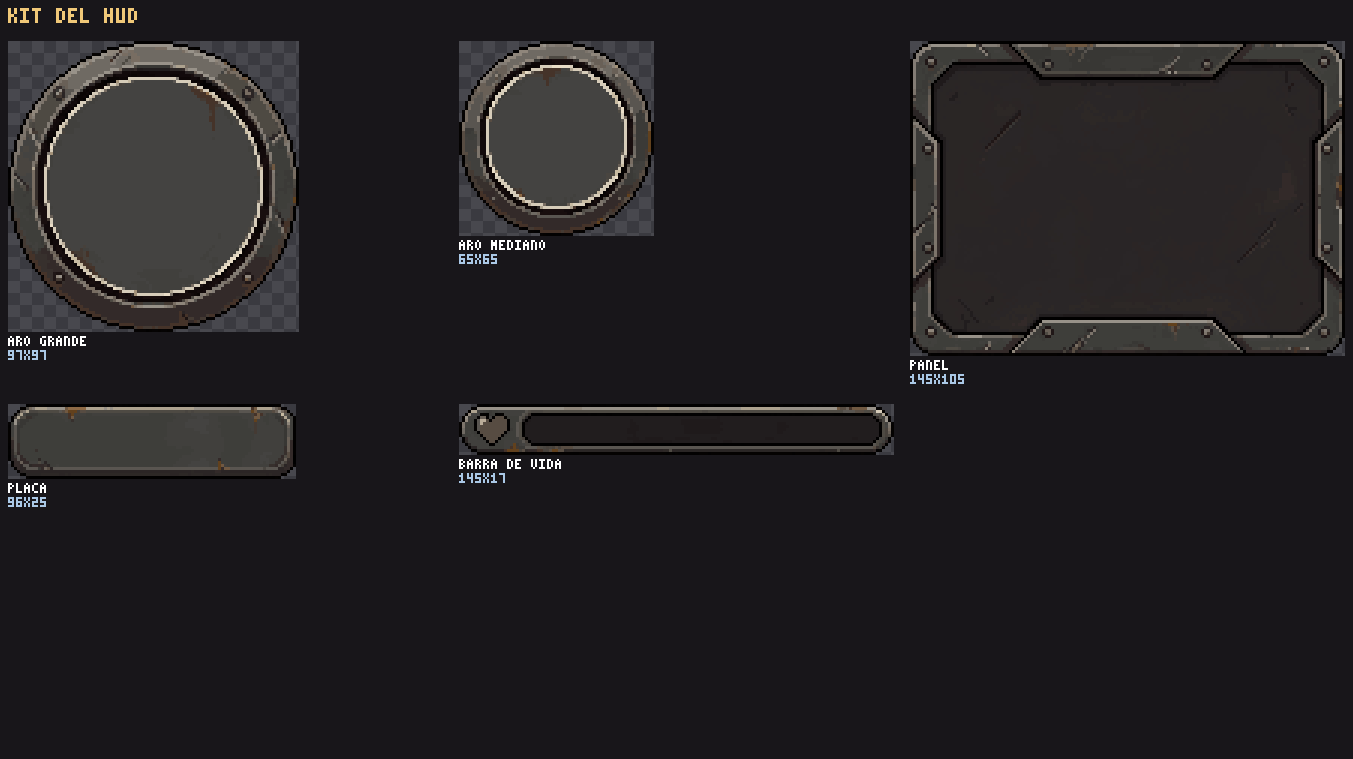
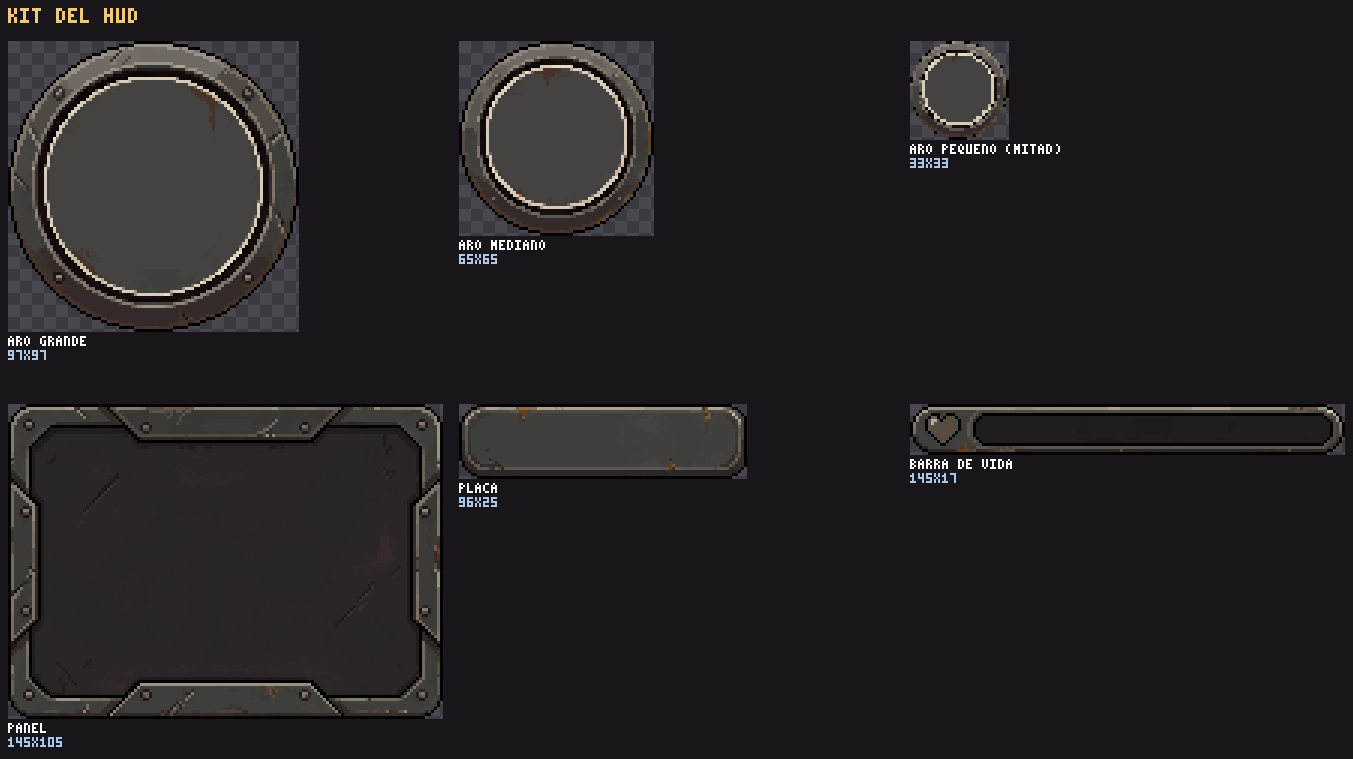
feat(hud): botones pequeños con el aro pequeño (33 px)
Especial, recargar, cuchillo y huecos de arma usan el aro mediano del kit
reducido exactamente a la mitad al importar (ringSmall, 33 px), en sus
posiciones de antes del kit. Los huecos se tocan en 45 px sin robarse
toques entre ellos ni con el especial.

Changed region(s): [[0.0, 0.0303, 1.0, 1.0]]

diff --git a/scripts/import-hud.ts b/scripts/import-hud.ts
@@ -12,7 +12,9 @@
  *
  * Nothing is repainted: the rings are tinted at runtime (src/ui/skin.ts), the
  * panel and the plate are drawn with 9-slice, and the game draws the health
- * segments inside the bar's trough and makes the heart beat.
+ * segments inside the bar's trough and makes the heart beat. The only new
+ * image is the small ring: the medium one halved exactly (2:1), so the small
+ * buttons are drawn at 1× too.
  */
 import { existsSync, mkdirSync, readFileSync, readdirSync, statSync, writeFileSync } from 'node:fs';
 import { dirname, join, resolve } from 'node:path';
@@ -50,10 +52,12 @@ export interface UiPiece {
 }
 
 type PieceName = 'ringLarge' | 'ringMedium' | 'panel' | 'plate' | 'healthFrame';
+type OutputName = PieceName | 'ringSmall';
 
-const LABELS: Record<PieceName, string> = {
+const LABELS: Record<OutputName, string> = {
   ringLarge: 'ARO GRANDE',
   ringMedium: 'ARO MEDIANO',
+  ringSmall: 'ARO PEQUENO (MITAD)',
   panel: 'PANEL',
   plate: 'PLACA',
   healthFrame: 'BARRA DE VIDA',
@@ -189,6 +193,40 @@ export function measureHealthBar(f: Frame): { trough: Rect; heart: Rect } {
   return { trough, heart: { x: hx0, y: hy0, width: hx1 - hx0 + 1, height: hy1 - hy0 + 1 } };
 }
 
+/**
+ * Exactly half the size: each pixel takes the commonest colour of its 2×2
+ * block; on a tie the lighter one wins, so the thin bone-white border of a
+ * ring survives. An odd size rounds up (the last row and column count alone).
+ */
+export function halve(src: Frame): Frame {
+  const w = Math.ceil(src.width / 2);
+  const h = Math.ceil(src.height / 2);
+  const out: Frame = { width: w, height: h, pixels: new Uint8Array(w * h * 4) };
+  const keyAt = (x: number, y: number): number => {
+    if (alpha(src, x, y) === 0) return -1;
+    const [r, g, b] = rgb(src, x, y);
+    return (r << 16) | (g << 8) | b;
+  };
+  const light = (k: number): number => (k < 0 ? -1 : luma([(k >> 16) & 0xff, (k >> 8) & 0xff, k & 0xff]));
+  for (let y = 0; y < h; y++) {
+    for (let x = 0; x < w; x++) {
+      const counts = new Map<number, number>();
+      for (let dy = 0; dy < 2; dy++) {
+        for (let dx = 0; dx < 2; dx++) {
+          const sx = x * 2 + dx;
+          const sy = y * 2 + dy;
+          if (sx < src.width && sy < src.height) counts.set(keyAt(sx, sy), (counts.get(keyAt(sx, sy)) ?? 0) + 1);
+        }
+      }
+      let best = -1;
+      let bestCount = -1;
+      for (const [key, n] of counts) if (n > bestCount || (n === bestCount && light(key) > light(best))) [best, bestCount] = [key, n];
+      if (best >= 0) out.pixels.set([(best >> 16) & 0xff, (best >> 8) & 0xff, best & 0xff, 255], (y * w + x) * 4);
+    }
+  }
+  return out;
+}
+
 /** The kit's pieces: elements/ of a PixelLab export, or else the one PNG sheet in the folder. */
 function readKit(dir: string): Frame[] {
   for (const name of readdirSync(dir)) {
@@ -207,25 +245,27 @@ function readKit(dir: string): Frame[] {
 }
 
 export function importHud(root: string, log: (line: string) => void): Record<string, UiPiece> {
-  const kit = namePieces(readKit(resolve(root, 'art-src/pixellab/hud')));
+  const named = namePieces(readKit(resolve(root, 'art-src/pixellab/hud')));
+  const kit: Record<OutputName, Frame> = { ...named, ringSmall: halve(named.ringMedium) };
   const outDir = resolve(root, 'public/assets/ui');
   mkdirSync(outDir, { recursive: true });
-  const files: Record<PieceName, string> = {
+  const files: Record<OutputName, string> = {
     ringLarge: 'ring_large.png',
     ringMedium: 'ring_medium.png',
+    ringSmall: 'ring_small.png',
     panel: 'panel.png',
     plate: 'plate.png',
     healthFrame: 'health_frame.png',
   };
   const bar = measureHealthBar(kit.healthFrame);
-  const extra: Partial<Record<PieceName, Partial<UiPiece>>> = {
+  const extra: Partial<Record<OutputName, Partial<UiPiece>>> = {
     panel: { slice: PANEL_SLICE },
     plate: { slice: PLATE_SLICE },
     healthFrame: { trough: bar.trough, heart: bar.heart },
   };
   const pieces: Record<string, UiPiece> = {};
   const review: SheetEntry[] = [];
-  for (const name of Object.keys(files) as PieceName[]) {
+  for (const name of Object.keys(files) as OutputName[]) {
     const frame = kit[name];
     writeFileSync(join(outDir, files[name]), encodePng(frame.width, frame.height, frame.pixels));
     pieces[name] = { file: `ui/${files[name]}`, width: frame.width, height: frame.height, ...extra[name] };

diff --git a/src/ui/skin.css b/src/ui/skin.css
@@ -1,9 +1,10 @@
 /*
  * HUD skin from PixelLab (src/ui/skin.ts, npm run hud:import). Only with
  * `.has-ui-skin` on <html>: without the pieces the HUD keeps its CSS look.
- * Rings at 1× (their 97 and 65 px), symbols at 2× their 12×12 grid; the
- * panel and the plate with 9-slice: corners whole, edges repeated pixel
- * for pixel. Always pixelated.
+ * Rings at 1× (the big one, 97 px; the small one, 33 px: the medium halved
+ * at import), symbols at whole multiples of their 12×12 grid; the panel and
+ * the plate with 9-slice: corners whole, edges repeated pixel for pixel.
+ * Always pixelated.
  */
 
 /* ── Fire button: the big ring, tinted red, on the 96 px button (the ring is 97). ── */
@@ -25,52 +26,25 @@
   pointer-events: none;
 }
 
-/* ── Special, reload and knife: the medium ring (65 px), in an arc around the fire button. ── */
-.has-ui-skin .action-button {
-  width: var(--ui-ring-medium-size);
-  height: var(--ui-ring-medium-size);
-  background: var(--ui-ring-medium) 0 0 / 100% 100% no-repeat;
+/* ── Special, reload, knife and weapon slots: the small ring (33 px, the medium one halved), where they always were. ── */
+.has-ui-skin .action-button,
+.has-ui-skin .weapon-column .action-button {
+  width: var(--ui-ring-small-size);
+  height: var(--ui-ring-small-size);
+  background: var(--ui-ring-small) 0 0 / 100% 100% no-repeat;
   box-shadow: none;
   image-rendering: pixelated;
 }
 
-/* Fire centre at (pad + 60, pad-bottom + 64) from the corner; the ring centres 89 px from it. */
-.has-ui-skin .action-button--special {
-  right: calc(var(--pad-x) + 28px);
-  bottom: calc(var(--pad-bottom) + 120px);
-  background-image: var(--ui-ring-medium-amber);
-}
-
-.has-ui-skin .action-button--reload {
-  right: calc(var(--pad-x) + 90px);
-  bottom: calc(var(--pad-bottom) + 94px);
-}
-
-.has-ui-skin .action-button--melee {
-  right: calc(var(--pad-x) + 116px);
-  bottom: calc(var(--pad-bottom) + 32px);
+.has-ui-skin .action-button--special,
+.has-ui-skin .weapon-slot.is-active {
+  background-image: var(--ui-ring-small-amber);
+  box-shadow: none;
 }
 
 /* The reload veil empties over the ring's face only. */
 .has-ui-skin .action-button__clip {
-  inset: var(--ui-ring-medium-face-inset);
-}
-
-/* ── Weapon slots: the medium ring (65 px, at least 44); in a row under the money. ── */
-.has-ui-skin .weapon-column {
-  flex-direction: row;
-  top: calc(var(--pad-top) + 56px);
-  gap: 4px;
-}
-
-.has-ui-skin .weapon-column .action-button {
-  width: var(--ui-ring-medium-size);
-  height: var(--ui-ring-medium-size);
-}
-
-.has-ui-skin .weapon-slot.is-active {
-  background-image: var(--ui-ring-medium-amber);
-  box-shadow: none;
+  inset: var(--ui-ring-small-face-inset);
 }
 
 /* Not in hand: dimmed to 60 %. */
@@ -78,8 +52,21 @@
   opacity: 0.6;
 }
 
-.has-ui-skin .weapon-slot .action-button__label {
-  bottom: 6px;
+/*
+ * Drawn at 33 px, tapped as at least 44: a 6 px invisible margin makes each
+ * slot 45 px, and the 12 px gap lets the margins meet without one slot
+ * taking taps from its neighbour's ring. On short screens (360 px) the
+ * column comes down to the special: on top of it, so the special's wider
+ * margin never takes the last slot's ring (the slots' 6 px stop short of
+ * the special's).
+ */
+.has-ui-skin .weapon-column {
+  z-index: 21;
+  gap: 12px;
+}
+
+.has-ui-skin .weapon-column .action-button {
+  --hit-slop: 6px;
 }
 
 /* ── Context action: the plate with 9-slice, icon and text side by side. ── */

diff --git a/src/ui/skin.ts b/src/ui/skin.ts
@@ -2,7 +2,7 @@ import type { UiPieceDef, UiRect } from '../game/assets/manifest';
 import './skin.css';
 
 /** The pieces the skin needs; without any of them the HUD keeps its CSS-only look. */
-const REQUIRED = ['ringLarge', 'ringMedium', 'panel', 'plate', 'healthFrame'] as const;
+const REQUIRED = ['ringLarge', 'ringSmall', 'panel', 'plate', 'healthFrame'] as const;
 /** The health bar's segments (as in Hud.ts) and the gap between them (px). */
 const SEGMENTS = 10;
 const SEGMENT_GAP = 2;
@@ -23,26 +23,26 @@ const TINT_STRENGTH = 0.7;
 export async function applyUiSkin(ui: Readonly<Record<string, UiPieceDef>>, assetsBase: string, root: HTMLElement = document.documentElement): Promise<boolean> {
   if (!REQUIRED.every((key) => ui[key])) return false;
   const ringLarge = ui.ringLarge;
-  const ringMedium = ui.ringMedium;
+  const ringSmall = ui.ringSmall;
   const panel = ui.panel;
   const plate = ui.plate;
   const health = ui.healthFrame;
-  if (!ringLarge || !ringMedium || !panel || !plate || !health) return false;
+  if (!ringLarge || !ringSmall || !panel || !plate || !health) return false;
   // Absolute URLs: a relative url() inside a custom property may resolve against the stylesheet.
   const href = (piece: UiPieceDef): string => new URL(assetsBase + piece.file, document.baseURI).href;
   const url = (src: string): string => `url("${src}")`;
   const px = (n: number): string => `${n}px`;
 
-  const [large, medium] = await Promise.all([loadImage(href(ringLarge)), loadImage(href(ringMedium))]);
+  const [large, small] = await Promise.all([loadImage(href(ringLarge)), loadImage(href(ringSmall))]);
   const style = root.style;
   style.setProperty('--ui-ring-large', url(large ? tinted(large, RED) ?? href(ringLarge) : href(ringLarge)));
   style.setProperty('--ui-ring-large-size', px(ringLarge.width));
-  style.setProperty('--ui-ring-medium', url(href(ringMedium)));
-  style.setProperty('--ui-ring-medium-amber', url(medium ? tinted(medium, AMBER) ?? href(ringMedium) : href(ringMedium)));
-  style.setProperty('--ui-ring-medium-size', px(ringMedium.width));
-  // The veil that empties while reloading covers only the medium ring's face.
-  const face = medium ? faceRadius(medium) : ringMedium.width / 2 - 8;
-  style.setProperty('--ui-ring-medium-face-inset', px(Math.ceil(ringMedium.width / 2 - face)));
+  style.setProperty('--ui-ring-small', url(href(ringSmall)));
+  style.setProperty('--ui-ring-small-amber', url(small ? tinted(small, AMBER) ?? href(ringSmall) : href(ringSmall)));
+  style.setProperty('--ui-ring-small-size', px(ringSmall.width));
+  // The veil that empties while reloading covers only the small ring's face.
+  const face = small ? faceRadius(small) : ringSmall.width / 2 - 4;
+  style.setProperty('--ui-ring-small-face-inset', px(Math.ceil(ringSmall.width / 2 - face)));
 
   style.setProperty('--ui-panel', url(href(panel)));
   style.setProperty('--ui-panel-slice', sliceNumbers(panel));

diff --git a/scripts/import-hud.test.ts b/scripts/import-hud.test.ts
@@ -2,7 +2,7 @@ import { readFileSync, readdirSync } from 'node:fs';
 import { join, resolve } from 'node:path';
 import { describe, expect, it } from 'vitest';
 import { healthPadding } from '../src/ui/skin';
-import { cropToBounds, measureHealthBar, namePieces, splitSheet } from './import-hud';
+import { cropToBounds, halve, measureHealthBar, namePieces, splitSheet } from './import-hud';
 import { decodePng } from './lib/png';
 import { blank, paste, type Frame } from './lib/sheet';
 
@@ -43,6 +43,29 @@ describe('HUD kit from PixelLab (npm run hud:import)', () => {
     expect(trough).toEqual({ x: 22, y: 4, width: 118, height: 9 });
     expect(heart.x + heart.width).toBeLessThan(trough.x);
     expect([heart.width, heart.height]).toEqual([12, 11]);
+  });
+
+  it('halves a piece exactly: commonest colour of each 2×2 block, the lighter on a tie', () => {
+    const src = blank(3, 3);
+    const put = (x: number, y: number, v: number): void => src.pixels.set([v, v, v, 255], (y * 3 + x) * 4);
+    // Top-left block: two dark, two light → light. Top-right column: one light pixel alone → light.
+    put(0, 0, 20);
+    put(1, 0, 20);
+    put(0, 1, 230);
+    put(1, 1, 230);
+    put(2, 0, 230);
+    // Bottom-left: only one row of the block exists (odd size); one dark, one empty → the dark one. Bottom-right: empty.
+    put(0, 2, 20);
+    const half = halve(src);
+    expect([half.width, half.height]).toEqual([2, 2]);
+    const at = (x: number, y: number): number[] => Array.from(half.pixels.slice((y * 2 + x) * 4, (y * 2 + x) * 4 + 4));
+    expect(at(0, 0)).toEqual([230, 230, 230, 255]);
+    expect(at(1, 0)).toEqual([230, 230, 230, 255]);
+    expect(at(0, 1)).toEqual([20, 20, 20, 255]);
+    expect(at(1, 1)[3]).toBe(0);
+    // The medium ring becomes the 33 px small one.
+    const small = halve(namePieces(ELEMENTS.map(read)).ringMedium);
+    expect([small.width, small.height]).toEqual([33, 33]);
   });
 
   it('puts 10 whole-pixel segments inside the trough', () => {

diff --git a/src/game/assets/manifest.test.ts b/src/game/assets/manifest.test.ts
@@ -57,7 +57,9 @@ describe('muzzle points', () => {
 describe('HUD skin pieces', () => {
   it('are in the manifest with their sizes, slices and the health trough', () => {
     const { ui } = parseManifest(raw);
-    for (const key of ['ringLarge', 'ringMedium', 'plate', 'healthFrame', 'panel']) expect(ui[key], key).toBeDefined();
+    for (const key of ['ringLarge', 'ringMedium', 'ringSmall', 'plate', 'healthFrame', 'panel']) expect(ui[key], key).toBeDefined();
+    // The small ring is the medium one halved at import (65 → 33).
+    expect(ui.ringSmall?.width).toBe(Math.ceil((ui.ringMedium?.width ?? 0) / 2));
     expect(ui.plate?.slice).toHaveLength(4);
     expect(ui.panel?.slice).toHaveLength(4);
     expect(ui.healthFrame?.heart?.width).toBeGreaterThan(0);

diff --git a/src/input/WeaponBar.ts b/src/input/WeaponBar.ts
@@ -63,7 +63,7 @@ export class WeaponBar {
       if (!slot) return;
       if (this.shown[i] !== slot.weapon) {
         this.shown[i] = slot.weapon;
-        button.setIcon(WEAPON_ICONS[slot.weapon], iconSize(WEAPON_ICONS[slot.weapon], 2));
+        button.setIcon(WEAPON_ICONS[slot.weapon], iconSize(WEAPON_ICONS[slot.weapon], 1));
         button.el.setAttribute('aria-label', `${STRINGS.controls.weaponSlot(i + 1)}: ${STRINGS.weapons[slot.weapon]}`);
       }
       button.setLabel(String(slot.magazine));

diff --git a/src/input/ActionButtons.ts b/src/input/ActionButtons.ts
@@ -25,8 +25,8 @@ function addVeil(button: HTMLElement): HTMLDivElement {
 }
 
 /** Icons of the 34 px buttons of the arc. */
-/** Their 12×12 symbols at 2× (whole pixels). */
-const ICON_SIZE = 24;
+/** Their 12×12 symbols at 1× (whole pixels), inside the small ring's face. */
+const ICON_SIZE = 12;
 
 export class ActionButtons {
   private readonly specialButton: TapButton;

diff --git a/docs/DECISIONS.md b/docs/DECISIONS.md
@@ -924,3 +924,13 @@ Petición del usuario: un kit nuevo de PixelLab que ya viene vacío (aro grande,
   - Los demás iconos del HUD (armas, martillo, puerta, escalera, sombrero) también se dibujan a múltiplos enteros de su rejilla (`iconSize`).
 - **Estados:** tinte rojo en el aro de disparo y ámbar en el especial y el arma en mano, en un canvas al cargar, sin tocar la cara del aro; huecos no equipados al 60 % de opacidad; pulsado a 0,94 durante 60 ms en aros, chip y COMPRAR.
 - **Capturas sobre suelo claro y oscuro:** `maps/preview/hud/hud-suelo-claro.jpg` y `hud-suelo-oscuro.jpg`.
+
+### Botones pequeños con el aro pequeño (misma rama)
+
+Petición del usuario: los botones que no son joysticks, más pequeños, con el aro pequeño del kit. Opción elegida: la mitad exacta, 33 px.
+
+- **El kit no trae un aro pequeño propio:** se saca del mediano reducido 2:1 al importar (`halve`: cada píxel toma el color más repetido de su bloque de 2×2 y, en los empates, gana el claro para que el borde hueso no se pierda). `npm run hud:import` escribe `ui/ring_small.png` (33×33) y lo registra como `ringSmall`. Es la misma técnica del primer kit.
+- **Especial, recargar, cuchillo y huecos de arma** usan el aro pequeño a 1× (33 px), con los iconos a 1× de su rejilla (12 px). Vuelven a sus posiciones de antes del kit: el arco de `controls.css` y la columna de armas bajo el dinero. El aro mediano (65 px) queda en el manifiesto, sin usar.
+- **Huecos de arma de 45 px al tocar** (se pedían 44): margen invisible de 6 px y 12 px de separación entre huecos, para que los márgenes se junten sin que un hueco robe toques al aro del vecino. La columna mide 123 px.
+  - En pantallas de 360 px de alto la columna baja hasta el especial y el margen de 14 px del especial tapaba los 3 px de abajo del último hueco. La columna se pinta por encima del especial (`z-index` 21): los huecos ganan donde se cruzan los márgenes, y su margen de 6 px no llega al aro del especial.
+  - Comprobado a 844×390 y a 640×360, sin solapes. Captura: `maps/preview/hud/hud-aros-pequenos.jpg`.

diff --git a/docs/ASSETS.md b/docs/ASSETS.md
@@ -109,6 +109,7 @@ Identifica las piezas por su forma, las recorta a su contorno y las escribe en `
 "ui": {
   "ringLarge":   { "file": "ui/ring_large.png", "width": 97, "height": 97 },
   "ringMedium":  { "file": "ui/ring_medium.png", "width": 65, "height": 65 },
+  "ringSmall":   { "file": "ui/ring_small.png", "width": 33, "height": 33 },
   "panel":       { "file": "ui/panel.png", "width": 145, "height": 105, "slice": [35, 45, 35, 45] },
   "plate":       { "file": "ui/plate.png", "width": 96, "height": 25, "slice": [8, 8, 8, 8] },
   "healthFrame": { "file": "ui/health_frame.png", "width": 145, "height": 17,
@@ -117,7 +118,7 @@ Identifica las piezas por su forma, las recorta a su contorno y las escribe en `
 }
 ```
 
-- **Aros:** a escala entera, `pixelated`. El grande es el botón de disparo; el mediano, el especial, recargar, cuchillo y los huecos de arma.
+- **Aros:** a escala entera, `pixelated`. El grande es el botón de disparo. El pequeño (`ringSmall`) es el especial, recargar, cuchillo y los huecos de arma: no viene en el kit; el importador lo saca del mediano reducido exactamente a la mitad (cada píxel, el color más repetido de su bloque de 2×2; en los empates, el más claro, para conservar el borde). El mediano se importa pero no se usa.
 - **Panel y placa:** 9-slice, con las esquinas enteras y los bordes repetidos píxel a píxel.
   - El panel es el fondo de la tienda. Sus cortes son anchos para que las esquinas incluyan los extremos inclinados de las pletinas del centro de cada lado.
   - La placa es el botón de comprar y el chip de acción contextual.
